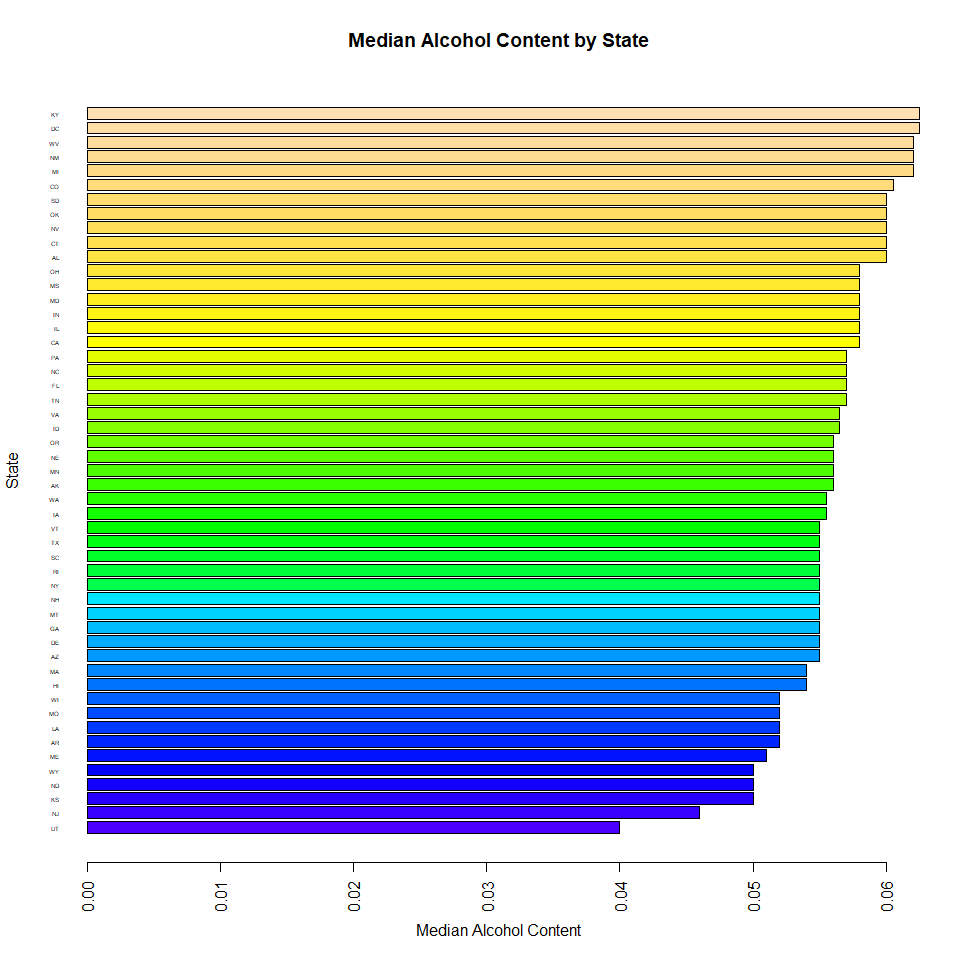
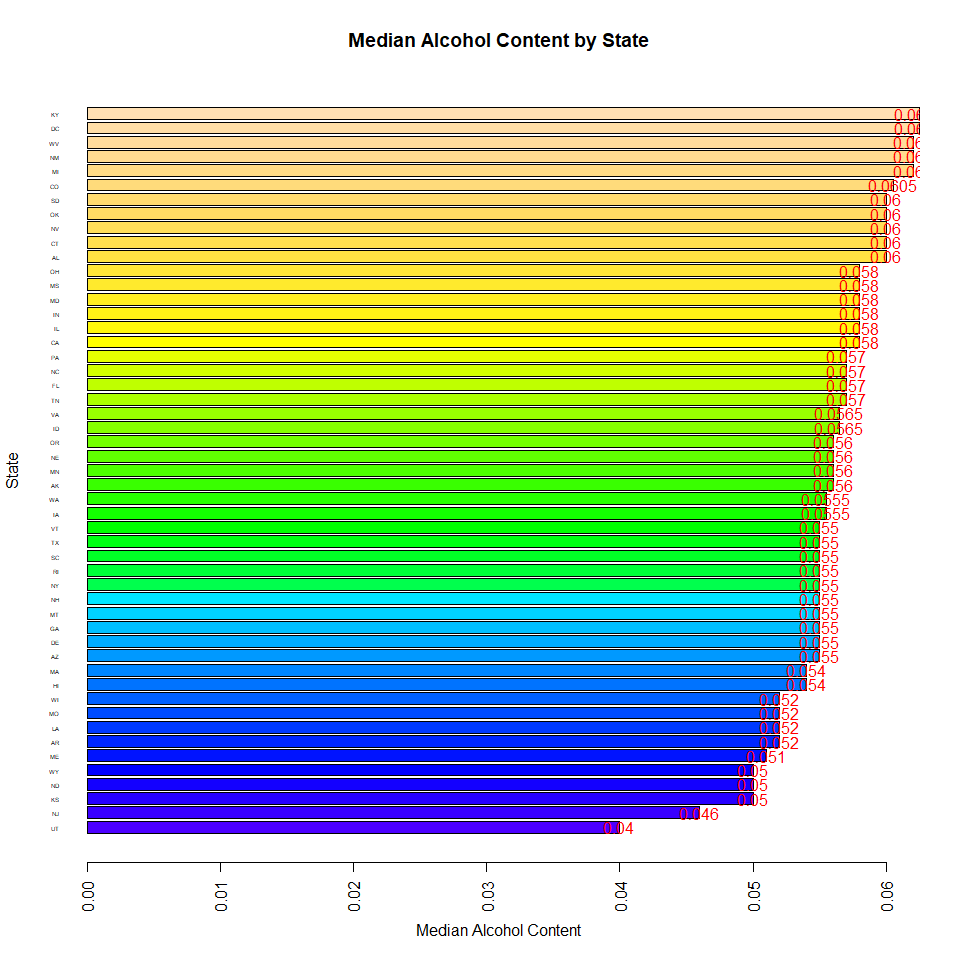
Added value labels on top of barplot

Changed region(s): [[0.75, 0.0938, 0.9688, 0.8438], [0.7188, 0.8438, 0.75, 0.875], [0.625, 0.8438, 0.6562, 0.875]]

diff --git a/CaseStudy1.md b/CaseStudy1.md
@@ -204,7 +204,8 @@ ABVbyState <- tapply(ABVwoNA$ABV, ABVwoNA$BreweryState, median)
 ## Displying bar char of median alcohol content by state
 
 par(las=2)
-barplot(sort(ABVbyState), main="Median Alcohol Content by State", horiz=TRUE, xlab="Median Alcohol Content", ylab="State", cex.names=0.4, col=topo.colors(nrow(ABVbyState)))
+abv_bar <- barplot(sort(ABVbyState), main="Median Alcohol Content by State", horiz=TRUE, xlab="Median Alcohol Content", ylab="State", cex.names=0.4, col=topo.colors(nrow(ABVbyState)))
+text(y = abv_bar, x=sort(ABVbyState), label=sort(ABVbyState), col="red")
 ```
 
 ![](CaseStudy1_files/figure-markdown_github/unnamed-chunk-7-1.png)
@@ -223,7 +224,8 @@ IBUbyState <- tapply(IBUwoNA$IBU, IBUwoNA$BreweryState, median)
 ## Displying bar char of international bitternes unit by state
 
 par(las=2)
-barplot(sort(IBUbyState), main="Median International Bitteness Unit by State", horiz=TRUE, xlab="Median International Bitterness Unit", ylab="State", cex.names=0.4, col=topo.colors(nrow(IBUbyState)))
+ibu_bar <- barplot(sort(IBUbyState), main="Median International Bitteness Unit by State", horiz=TRUE, xlab="Median International Bitterness Unit", ylab="State", cex.names=0.4, col=topo.colors(nrow(IBUbyState)))
+text(y = ibu_bar, x=sort(IBUbyState), label=sort(IBUbyState), col="red")
 ```
 
 ![](CaseStudy1_files/figure-markdown_github/unnamed-chunk-8-1.png)
@@ -288,3 +290,11 @@ ggplot(BBnoNA, aes(x=IBU,y=ABV))+geom_point()+ggtitle("Bitterness of Beer vs. Al
 ```
 
 ![](CaseStudy1_files/figure-markdown_github/unnamed-chunk-12-1.png)
+
+``` r
+## Scatter Plot Analysis
+##
+## The scatter plots indicate a positive direct relationship between IBU and ABV.  The simple linear regression can be made.
+##
+## ------------------------------------------------------------------------------------------------------------------------
+```
